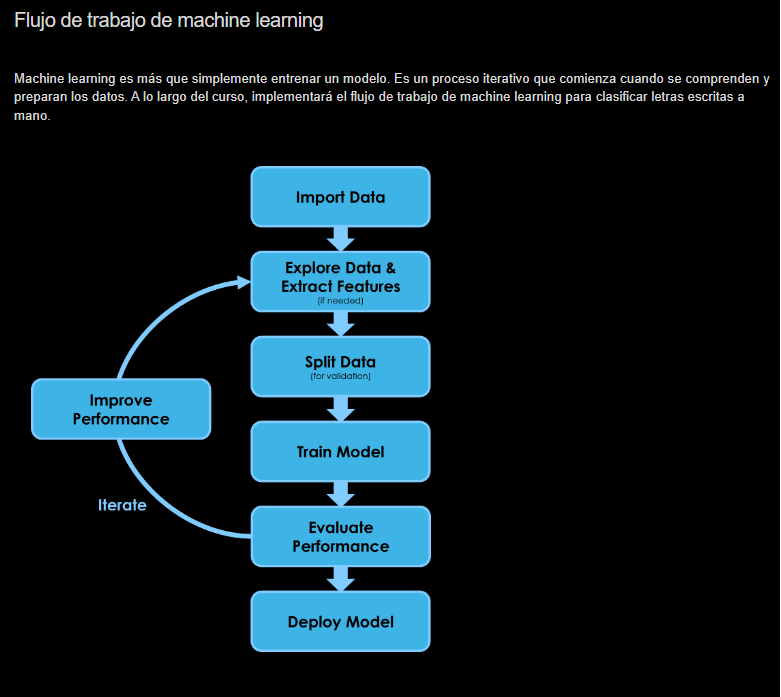
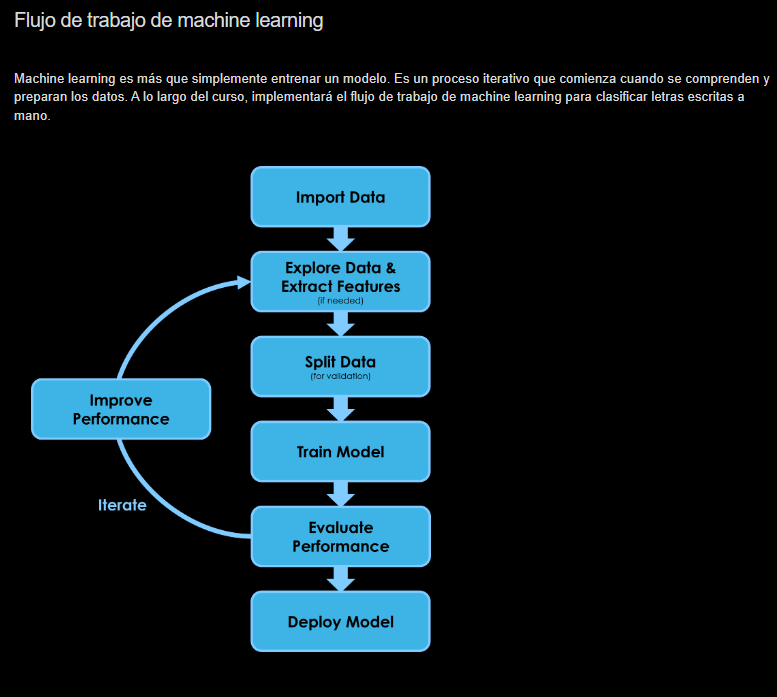
rasengan

diff --git a/Visión general sobre machine learning/Que es el machine larning.md b/Visión general sobre machine learning/Que es el machine larning.md
@@ -14,7 +14,7 @@ Durante el curso, utilizará una versión web de MATLAB dentro del entorno de fo
 
 
 
-![Texto alternativo](flujo_trabajo_machine_learning.png)
+<!--![Texto alternativo](flujo_trabajo_machine_learning.png)-->
 
 <p align="center">
   <img src="flujo_trabajo_machine_learning.png" alt="Texto alternativo" width="1000">
